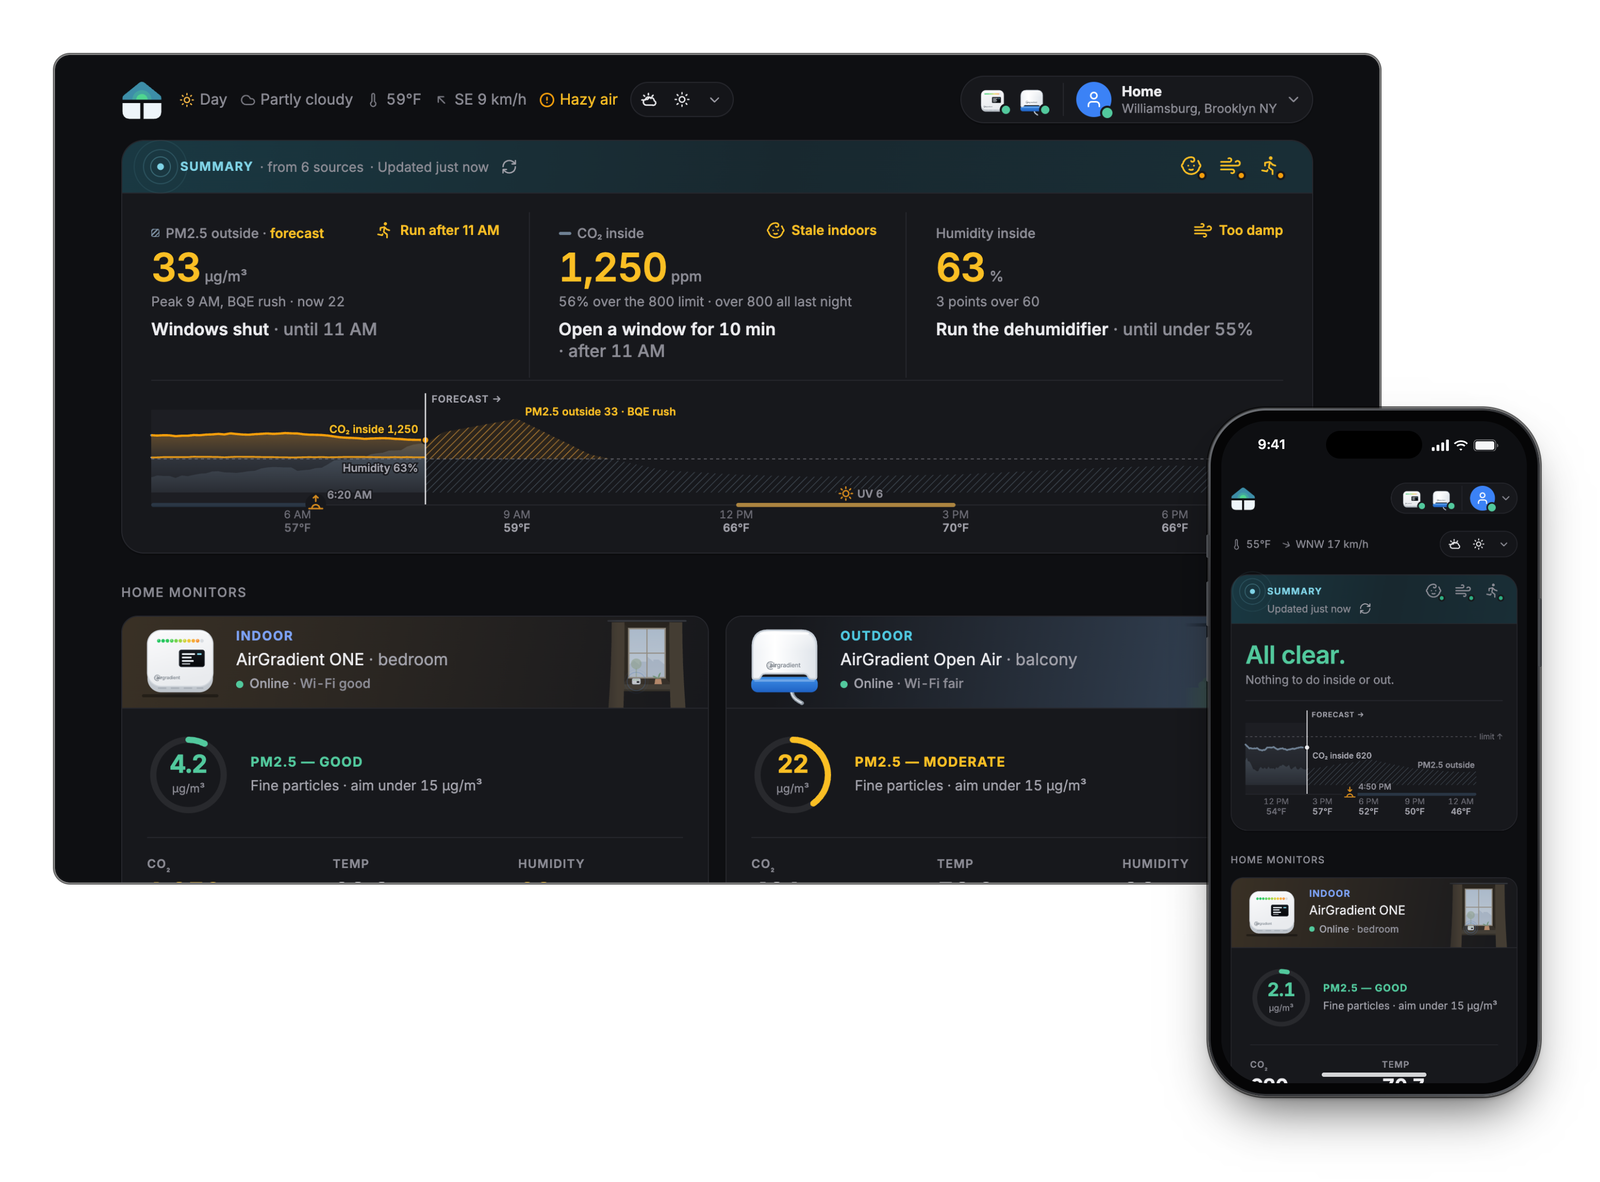
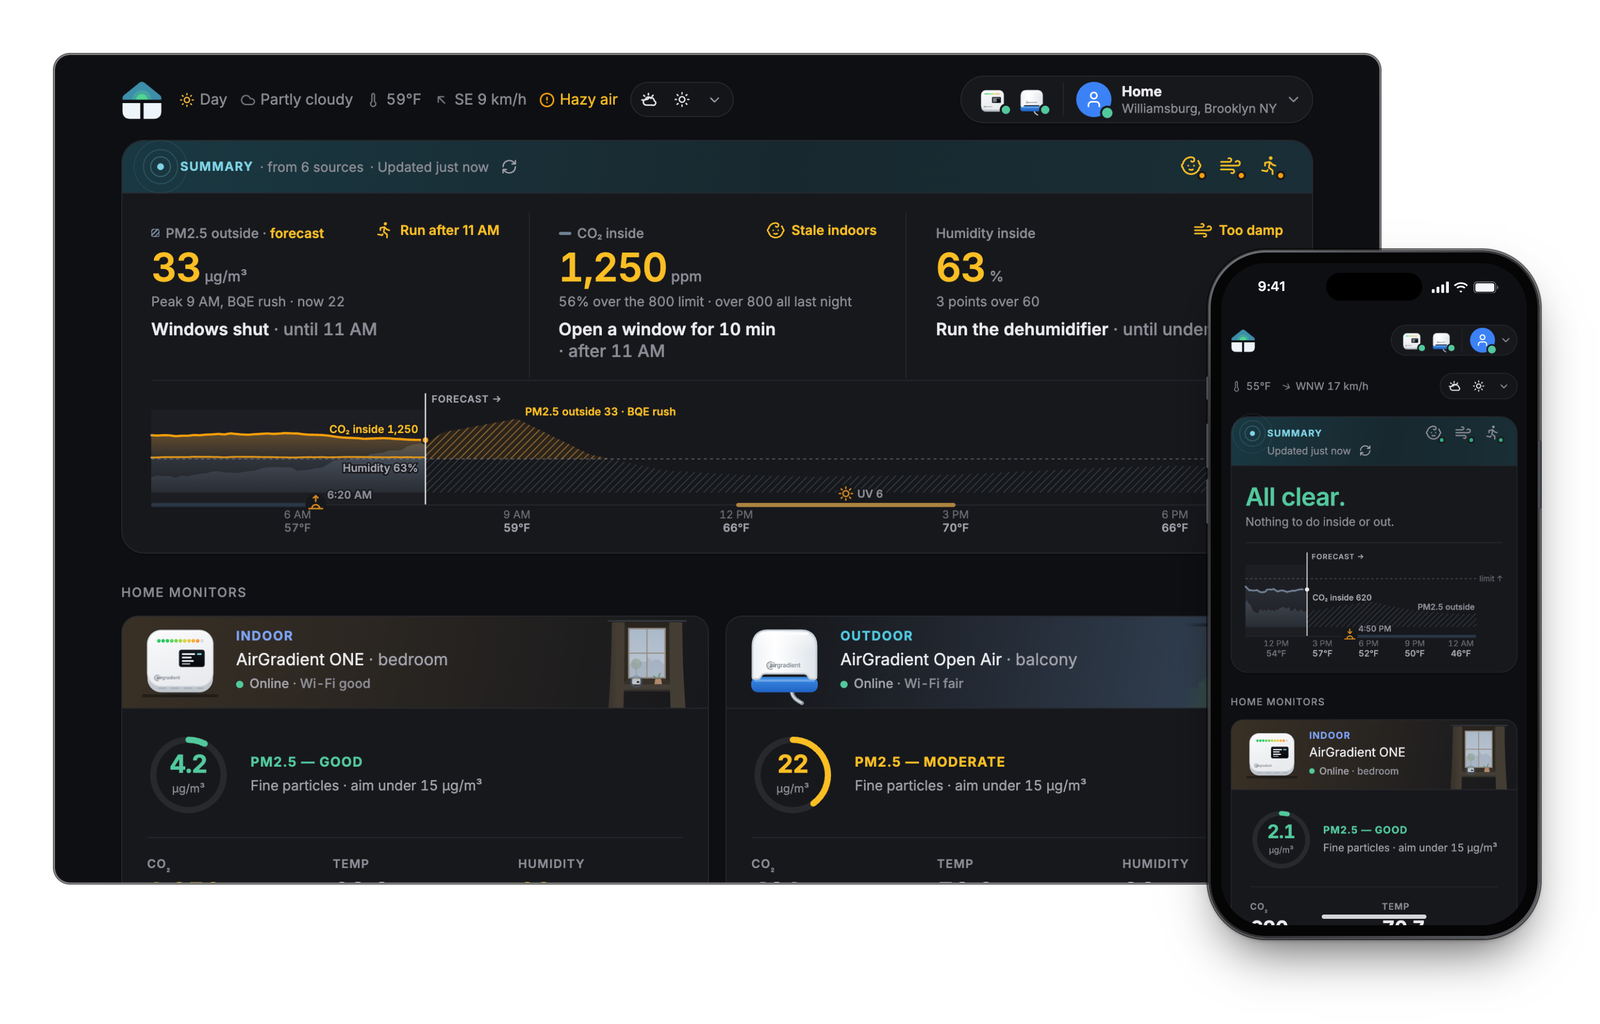
README hero: the phone back at its height, over the panel's corner

Changed region(s): [[0.0312, 0.0312, 0.9688, 0.9375], [0.375, 0.5312, 0.4375, 0.6875]]

diff --git a/scripts/hero.html b/scripts/hero.html
@@ -87,7 +87,7 @@
   const desk = document.getElementById('desk'), phone = document.getElementById('phone');
   desk.src = q.get('desk') || ''; phone.src = q.get('phone') || '';
   const PAST_RIGHT = 150;   // px the phone's right edge sits past the panel's: enough to read as in front, not beside
-  const BELOW = 200;        // px the phone's bottom sits below the panel's: it overlaps the corner, under the Summary's actions
+  const BELOW = 52;         // px the phone's bottom sits below the panel's, so it overlaps the corner
   const PAD = 100;          // px of room right of the phone, more than its shadow reaches (the edges must stay transparent)
   const PAD_BOTTOM = 150;   // px of room below the phone, where its shadow falls furthest
   // place the phone once the panel's height (the desktop capture's) is known, then size the stage around both
